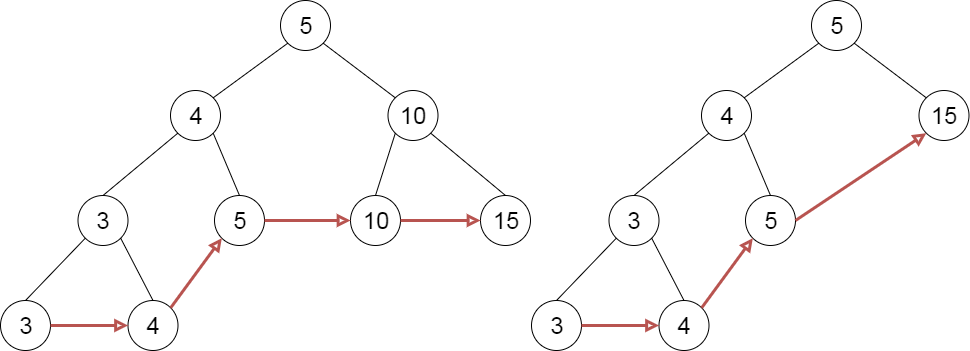
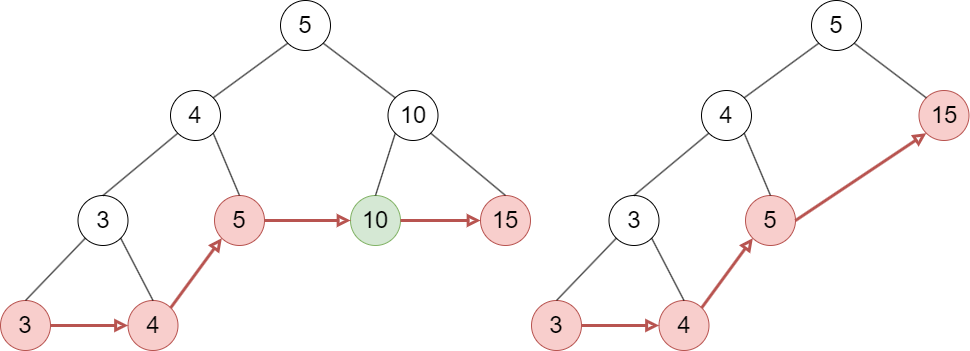
update lbst.md

diff --git a/lbst.md b/lbst.md
@@ -4,9 +4,7 @@ Leaf-oriented binary search trees are an alternative implementation of the 'dict
 
 * Keys are stored in leaf nodes in non-decreasing order (left to right).
 * All internal nodes store keys such that the following are always true:
-
   * The key of the left child of a node is less than or equal to the key of the node.
-
   * The key of the right child of a node is greater than the key of the node.
 
 Note that the definition implies that internal nodes always have two child nodes. Also, each leaf node has a pointer to the next leaf node.
@@ -20,23 +18,28 @@ An example of a leaf-oriented binary search tree is depicted below.
 ## Insert a new key
 
 1. Traverse the tree and find the parent leaf node L (has key Lk) of the new node C (has key Ck).
-
 2. Replace L by a tree that consists of 3 nodes, a parent node and two child nodes. The key of the left child and the parent node is defined as min(Lk, Ck). The key of the right child is defined as max(Lk, Ck).
-
 3. Update the necessary pointers to the next leaf nodes.
 
-Example: key 1 is inserted.
+**Example**: key 9 is inserted.
 
 ![alt text](img/insert.png)
 
 ## Delete a key
 
 1. Traverse the tree and find the leaf node L that has the key that will be deleted. Also, find its parent node P.
-
 2. Delete both L and P and connect the parent node of P to the sibling of L.
-
 3. Update the necessary pointers to the next leaf nodes.
 
-Example: key 10 is deleted.
+**Example**: key 10 is deleted.
 
 ![alt text](img/delete.png)
+
+## Range query (A to B)
+
+1. Traverse the tree and find the last leaf node with key K that satisfies K <= key of A.
+2. Traverse the leaf nodes until a key > B is found.
+
+**Example**: range_query(4, 11)
+
+![alt text](img/range.png)
